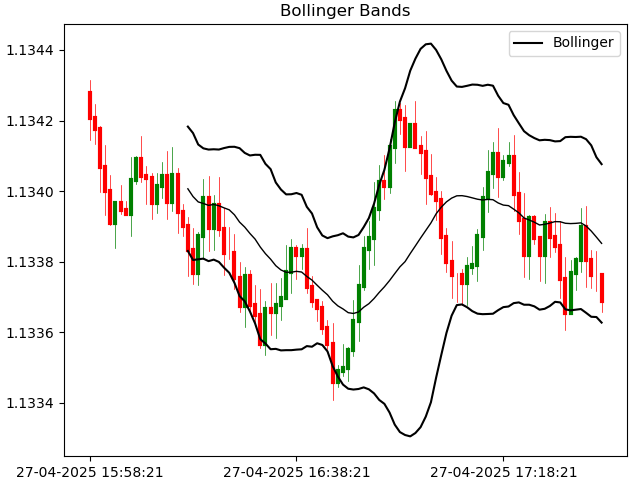
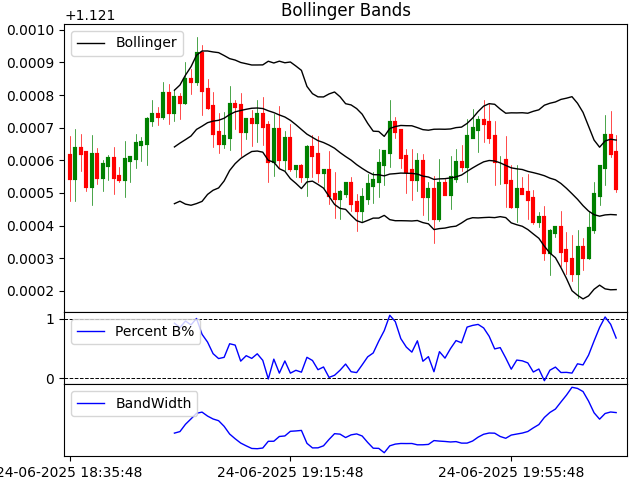
Bollinger Band

diff --git a/5-Bollinger_Bands/5-Bollinger_Bands.py b/5-Bollinger_Bands/5-Bollinger_Bands.py
@@ -60,11 +60,15 @@ class Bollinger:
 
     def plot_data(self,var):
         self.fig.subplots_adjust(top=0.95,bottom=0.05,right=0.98,left=0.1,hspace=0,wspace=0)
-        ax=self.fig.add_subplot()
+        ax=self.fig.add_gridspec(6,1)
+        ax1=self.fig.add_subplot(ax[0:4,:])
+        ax2=self.fig.add_subplot(ax[4:5,:])
+        ax3=self.fig.add_subplot(ax[5:6,:])
 
-        ax.clear()
-        ax.set_title(self.title)
-        ax.set_xticks(np.arange(0,len(var['time']),40))
+        ax1.clear()
+        ax1.set_title(self.title)
+        ax1.set_xticks([])
+        ax1.set_xlim(-1,len(var['time'])+1)
 
         for i in range(len(var['time'])):
             if var['open'][i]>var['close'][i]:
@@ -73,14 +77,29 @@ class Bollinger:
                 ccolor='g'
             else:
                 ccolor='gray'
-            ax.plot([var['time'][i]]*2,[var['open'][i],var['close'][i]],c=ccolor,lw=3)
-            ax.plot([var['time'][i]]*2,[var['high'][i],var['low'][i]],c=ccolor,lw=0.5)
+            ax1.plot([var['time'][i]]*2,[var['open'][i],var['close'][i]],c=ccolor,lw=3)
+            ax1.plot([var['time'][i]]*2,[var['high'][i],var['low'][i]],c=ccolor,lw=0.5)
 
         #PLOT Bollinger:
-        ax.plot(var['time'],var['avg_BB'],c='black',lw=1)
-        ax.plot(var['time'],var['up_BB'],c='black',lw=1.5,label='Bollinger')
-        ax.plot(var['time'],var['down_BB'],c='black',lw=1.5)
-        ax.legend()
+        ax1.plot(var['time'],var['avg_BB'],c='black',lw=1)
+        ax1.plot(var['time'],var['up_BB'],c='black',lw=1,label='Bollinger')
+        ax1.plot(var['time'],var['down_BB'],c='black',lw=1)
+        ax1.legend(loc='upper left')
+
+        ax2.clear()
+        ax2.set_xticks([])
+        ax2.set_yticks([0,1])
+        ax2.set_xlim(-1,len(var['time'])+1)
+        [ax2.axhline(y=i,c='black',lw=0.7,ls='--') for i in [0,1]]
+        ax2.plot(var['time'],var['percentB'],c='b',lw=1,label='Percent B%')
+        ax2.legend(loc='upper left')
+
+        ax3.clear()
+        ax3.set_xticks(np.arange(0,len(var['time']),40))
+        ax3.set_yticks([])
+        ax3.set_xlim(-1,len(var['time'])+1)
+        ax3.plot(var['time'],var['bandWidth'],c='b',lw=1,label='BandWidth')
+        ax3.legend(loc='upper left')
 
         plt.show()
 

diff --git a/5-Bollinger_Bands/indicator.py b/5-Bollinger_Bands/indicator.py
@@ -3,23 +3,37 @@ import pandas as pd
 
 def bollinger_dict(n,s,price,var):
     
-    if 'up_BB' and 'down_BB' and 'avg_BB' not in var:
-        var['avg_BB']=[]
-        var['up_BB']=[]
-        var['down_BB']=[]
+    for i in ['up_BB','down_BB','avg_BB','percentB','bandWidth']:
+        if i not in var:
+            var[i]=[]
         
+    #BOLLINGER BAND:
     if len(var[price])>=n:
         avg=np.mean(var[price][-n:])
         std=np.std(var[price][-n:])
         upBB=avg+s*std
         downBB=avg-s*std
-        var['avg_BB'].append(avg)
-        var['up_BB'].append(upBB)
-        var['down_BB'].append(downBB)
-    elif len(var[price])<n:
-        var['avg_BB'].append(None)
-        var['up_BB'].append(None)
-        var['down_BB'].append(None)
+    else:
+        avg=np.nan
+        upBB=np.nan
+        downBB=np.nan
+    var['avg_BB'].append(avg)
+    var['up_BB'].append(upBB)
+    var['down_BB'].append(downBB)
+
+    #PERCENT B:
+    if len(var[price])>=n:
+        percentB=(var[price][-1]-var['down_BB'][-1])/(var['up_BB'][-1]-var['down_BB'][-1])
+    else:
+        percentB=np.nan
+    var['percentB'].append(percentB)
+
+    #BAND WIDTH:
+    if len(var['time'])>=n:
+        bandWidth=(var['up_BB'][-1]-var['down_BB'][-1])/var['avg_BB'][-1]
+    else:
+        bandWidth=np.nan
+    var['bandWidth'].append(bandWidth)
 
 def bollinger_pandas(n,s,price,var):
 
@@ -29,6 +43,8 @@ def bollinger_pandas(n,s,price,var):
     df['std_BB']=df[price].rolling(window=n,min_periods=n).std()
     df['up_BB']=df['avg_BB']+s*df['std_BB']
     df['down_BB']=df['avg_BB']-s*df['std_BB']
-
-    for i in ['avg_BB','up_BB','down_BB']:
+    df['percentB']=(df[price]-df['down_BB'])/(df['up_BB']-df['down_BB'])
+    df['bandWidth']=(df['up_BB']-df['down_BB'])/df['avg_BB']
+    
+    for i in ['avg_BB','up_BB','down_BB','percentB','bandWidth']:
         var[i]=df[i].tolist()
